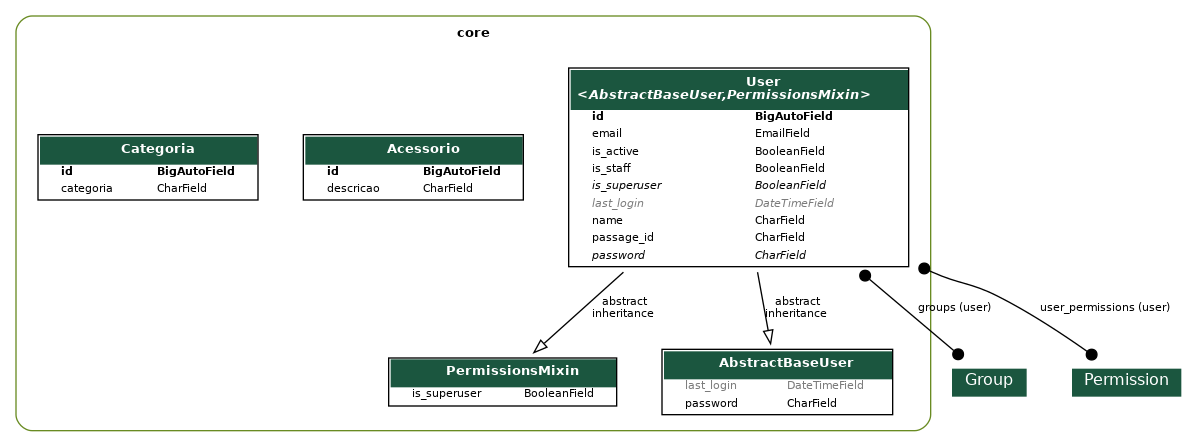
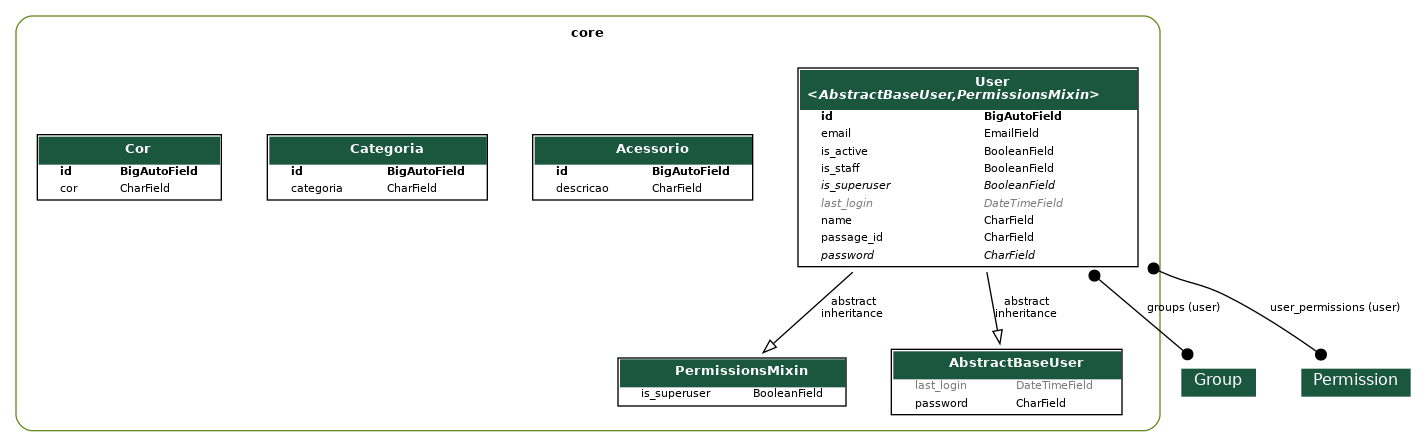
Cores Model Criada

diff --git a/core/migrations/0004_cor.py b/core/migrations/0004_cor.py
@@ -1,0 +1,24 @@
+# Generated by Django 5.0.6 on 2024-06-28 12:08
+
+from django.db import migrations, models
+
+
+class Migration(migrations.Migration):
+
+    dependencies = [
+        ("core", "0003_categoria_alter_acessorio_options"),
+    ]
+
+    operations = [
+        migrations.CreateModel(
+            name="Cor",
+            fields=[
+                ("id", models.BigAutoField(auto_created=True, primary_key=True, serialize=False, verbose_name="ID")),
+                ("cor", models.CharField(max_length=100)),
+            ],
+            options={
+                "verbose_name": "Cor",
+                "verbose_name_plural": "Cores",
+            },
+        ),
+    ]

diff --git a/app/urls.py b/app/urls.py
@@ -9,13 +9,14 @@ from drf_spectacular.views import (
 from rest_framework.routers import DefaultRouter
 from rest_framework_simplejwt.views import TokenObtainPairView, TokenRefreshView
 
-from core.views import AcessorioViewSet, CategoriaViewSet, UserViewSet
+from core.views import AcessorioViewSet, CategoriaViewSet, UserViewSet, CorViewSet
 
 router = DefaultRouter()
 
 router.register(r"usuarios", UserViewSet, basename="usuarios")
 router.register(r"acessorios", AcessorioViewSet)
 router.register(r"categorias", CategoriaViewSet)
+router.register(r"cores", CorViewSet)
 
 urlpatterns = [
     path("admin/", admin.site.urls),

diff --git a/core/models/cor.py b/core/models/cor.py
@@ -1,0 +1,12 @@
+from django.db import models
+
+
+class Cor(models.Model):
+    cor = models.CharField(max_length=100)
+
+    def __str__(self):
+        return f"{self.cor} {self.id}"
+
+    class Meta:
+        verbose_name = "Cor"
+        verbose_name_plural = "Cores"

diff --git a/core/models/categoria.py b/core/models/categoria.py
@@ -5,7 +5,7 @@ class Categoria(models.Model):
     categoria = models.CharField(max_length=100)
 
     def __str__(self):
-        return f"{self.categoria    } {self.id}"
+        return f"{self.categoria} {self.id}"
 
     class Meta:
         verbose_name = "Categoria"

diff --git a/core/views/cor.py b/core/views/cor.py
@@ -1,0 +1,8 @@
+from rest_framework.viewsets import ModelViewSet
+
+from core.models import Cor
+from core.serializers import CorSerializer
+
+class CorViewSet(ModelViewSet):
+    queryset = Cor.objects.all()
+    serializer_class = CorSerializer

diff --git a/core/serializers/cor.py b/core/serializers/cor.py
@@ -1,0 +1,8 @@
+from rest_framework.serializers import ModelSerializer
+
+from core.models import Cor
+
+class CorSerializer(ModelSerializer):
+    class Meta:
+        model = Cor
+        fields = "__filds__"

diff --git a/core/admin.py b/core/admin.py
@@ -52,3 +52,4 @@ class UserAdmin(BaseUserAdmin):
 admin.site.register(models.User, UserAdmin)
 admin.site.register(models.Acessorio)
 admin.site.register(models.Categoria)
+admin.site.register(models.Cor)

diff --git a/core/serializers/__init__.py b/core/serializers/__init__.py
@@ -1,3 +1,4 @@
 from .user import UserSerializer
 from .acessorio import AcessorioSerializer
 from .categoria import CategoriaSerializer
+from .cor import CorSerializer

diff --git a/core/views/__init__.py b/core/views/__init__.py
@@ -1,3 +1,4 @@
 from .user import UserViewSet
 from .acessorio import AcessorioViewSet
 from .categoria import CategoriaViewSet
+from .cor import CorViewSet

diff --git a/core/models/__init__.py b/core/models/__init__.py
@@ -1,3 +1,4 @@
 from .user import User
 from .acessorio import Acessorio
 from .categoria import Categoria
+from .cor import Cor
